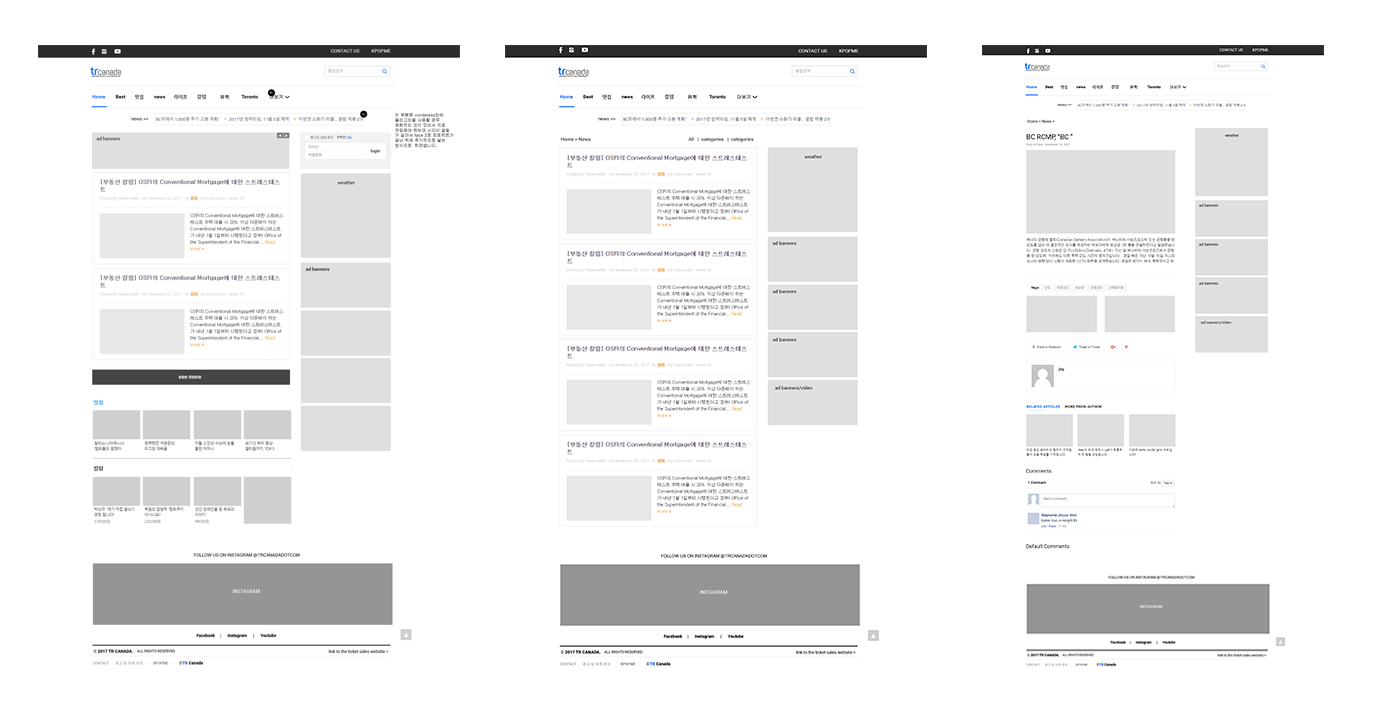
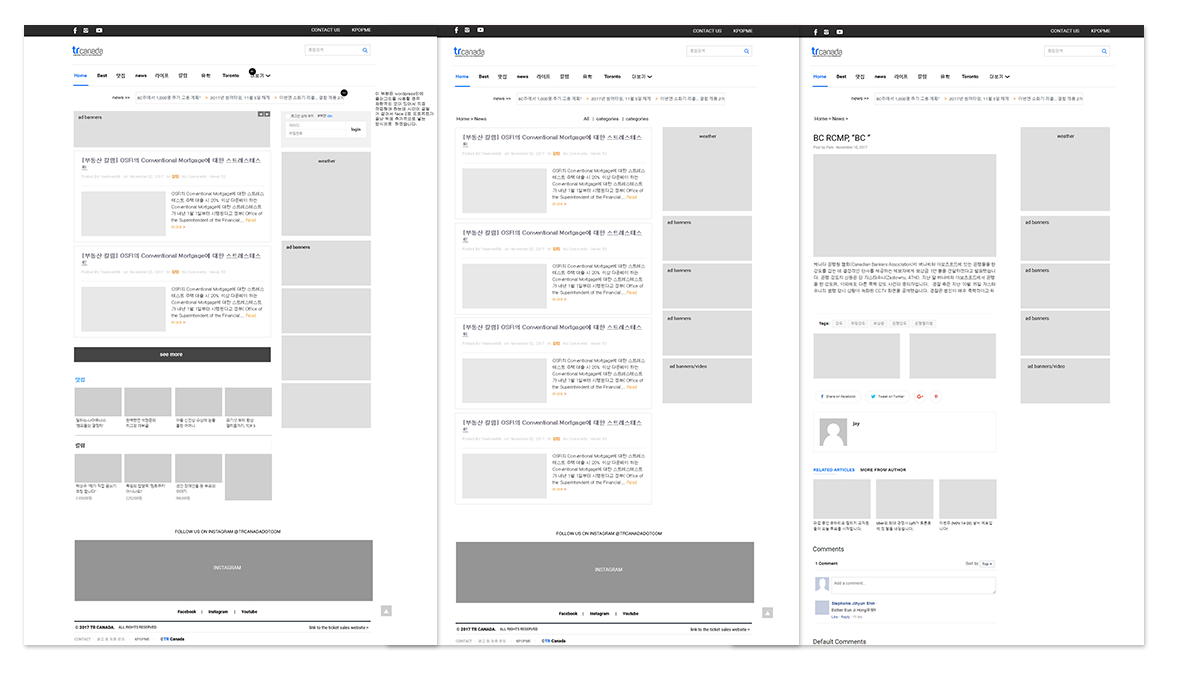
add more images on strong current page

diff --git a/css/style.css b/css/style.css
@@ -437,13 +437,15 @@ h6 {
   width: 100%; }
 
 .secondrow-container,
-.fourthrow-container {
+.fourthrow-container,
+.sixthrow-container {
   background: #F6F6F6;
   border-top: 1px solid #dce0e5;
   border-bottom: 1px solid #dce0e5; }
   @media all and (min-width: 600px) {
     .secondrow-container,
-    .fourthrow-container {
+    .fourthrow-container,
+    .sixthrow-container {
       display: flex;
       justify-content: space-around;
       flex-wrap: wrap; } }
@@ -469,13 +471,15 @@ h6 {
 .secondrow-container,
 .thirdrow-container,
 .fourthrow-container,
-.fifthrow-contauner {
+.fifthrow-contauner,
+.sixthrow-container {
   padding: 30px 0; }
   @media all and (min-width: 600px) {
     .secondrow-container,
     .thirdrow-container,
     .fourthrow-container,
-    .fifthrow-contauner {
+    .fifthrow-contauner,
+    .sixthrow-container {
       margin: 0px auto;
       padding: 60px 0; } }
 
@@ -674,10 +678,6 @@ h5 {
   margin: 0; }
 .e-commerce-container .sp-sub-title h6:nth-child(2) {
   padding-bottom: 35px; }
-.e-commerce-container .ws-section4 img {
-  margin-top: 64px;
-  text-align: center;
-  box-shadow: 1px 2px 7px 1px rgba(0, 0, 0, 0.25); }
 .e-commerce-container .secondrow-img img {
   box-shadow: 1px 1px 6px 0px rgba(0, 0, 0, 0.2); }
 .e-commerce-container .sc-images p {
@@ -686,14 +686,18 @@ h5 {
   font-weight: 500; }
 .e-commerce-container .fourthrow-container {
   background: #F6F6F6;
-  border-top: 1px solid #dce0e5;
-  border-bottom: 1px solid #dce0e5; }
+  border-top: 1px solid #dce0e5; }
   @media all and (min-width: 600px) {
     .e-commerce-container .fourthrow-container {
       display: flex;
       justify-content: space-around; } }
   .e-commerce-container .fourthrow-container img {
     width: 100%; }
+@media all and (min-width: 600px) {
+  .e-commerce-container .fourthrow-img {
+    width: 45%; } }
+.e-commerce-container .fifthrow-container img {
+  width: 100%; }
 
 .latle-container .latle-topbanner {
   background: linear-gradient(to bottom, rgba(0, 0, 0, 0.6) 60%, rgba(0, 0, 0, 0.6) 60%), url("../img/latale/latle-mainbanner.jpg") no-repeat top;

diff --git a/css/sc.scss b/css/sc.scss
@@ -12,11 +12,6 @@
             padding-bottom: 35px;
         }
     }
-    .ws-section4 img {
-        margin-top: 64px;
-        text-align: center;
-        box-shadow: 1px 2px 7px 1px rgba(0, 0, 0, .25);
-    }
     .secondrow-img img {
         box-shadow: 1px 1px 6px 0px rgba(0, 0, 0, .2);
     }
@@ -28,13 +23,20 @@
     .fourthrow-container {
         background: #F6F6F6;
         border-top: 1px solid #dce0e5;
-        border-bottom: 1px solid #dce0e5;
-        // padding: 80px 20px;
         @media all and (min-width: 600px) {
             display: flex;
             justify-content: space-around;
         }
         img {
+            width: 100%;
+        }
+    }
+    .fourthrow-img{
+        @media all and (min-width: 600px) {
+        width: 45%;}
+    }
+    .fifthrow-container{
+        img{
             width: 100%;
         }
     }

diff --git a/css/single.scss b/css/single.scss
@@ -90,7 +90,8 @@ h6 {
 }
 
 .secondrow-container,
-.fourthrow-container {
+.fourthrow-container,
+.sixthrow-container {
     // padding: 60px 20px;
     background: #F6F6F6;
     border-top: 1px solid #dce0e5;
@@ -131,7 +132,8 @@ h6 {
 .secondrow-container,
 .thirdrow-container,
 .fourthrow-container,
-.fifthrow-contauner {
+.fifthrow-contauner,
+.sixthrow-container {
     padding: 30px 0;
     @media all and (min-width: 600px) {
         margin: 0px auto;

diff --git a/ecom-web.php b/ecom-web.php
@@ -59,10 +59,20 @@
             <div class="fourthrow-img"><img src="img/sc/sc-tablet.png"></div>
         </div>
 
-        <div class="ws-section4 sc-images">
-            <img src="img/sc/sc-full.jpg" alt="">
+        <div class="fifthrow-container">
+            <img src="img/sc/sc-mobile.jpg" alt="">
         </div>
-            <div class="btn"><a href="https://invis.io/SGCN2AVY5">view prototype</a></div>
+
+        <div class="ws-section4 sixthrow-container sc-images">
+            <img src="img/sc/sc-img03.png" alt="">
+        </div>
+
+
+
+        <!-- <div class="ws-section4 sc-images">
+            <img src="img/sc/sc-img03.jpg" alt="">
+        </div> -->
+           
             </section>
 <!-- footer -->
 <?php include( './pages/footer.php' ); ?>
